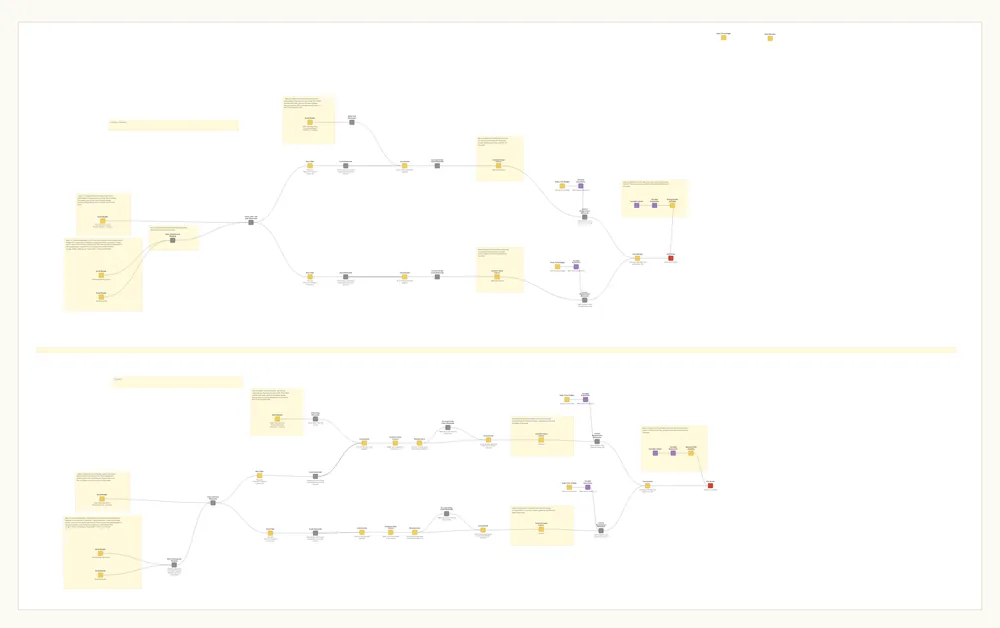
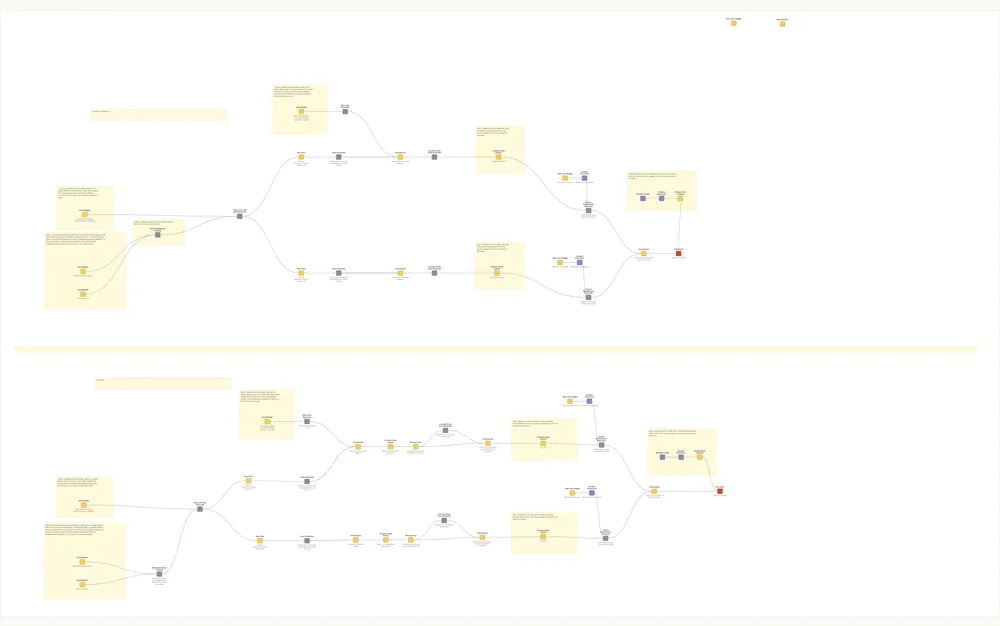
Every figure in one frame; KNIME drawings cropped to content

diff --git a/case-studies/knime-workflow.html b/case-studies/knime-workflow.html
@@ -68,7 +68,7 @@ y=l.getElementsByTagName(r)[0];y.parentNode.insertBefore(t,y);
 <p>Nothing checked any of it, and all 12 queries read those two dates. Hand-typed date windows like these once gave each week range an extra day that was already booked.</p>
 
 <figure class="breakout shot diagram">
-<a href="../visuals/png/knime-params.png" data-zoom><img src="../visuals/png/knime-params.png" srcset="../visuals/png/knime-params-1000.webp 1000w" sizes="(min-width: 820px) 680px, calc(100vw - 40px)" width="879" height="900" alt="The Variable Creator, redrawn from the workflow file, with the ten parameters from the last saved run. The account id and the folder path are masked." fetchpriority="high"></a>
+<a href="../visuals/png/knime-params.png" data-zoom><img src="../visuals/png/knime-params-stage.png" srcset="../visuals/png/knime-params-stage-1000.webp 1000w, ../visuals/png/knime-params-stage.png 1360w" sizes="(min-width: 820px) 680px, calc(100vw - 40px)" width="680" height="400" alt="The Variable Creator, redrawn from the workflow file, with the ten parameters from the last saved run. The account id and the folder path are masked." fetchpriority="high"></a>
 <figcaption aria-hidden="true">The Variable Creator, redrawn from the workflow file, with the ten parameters from the last saved run. The account id and the folder path are masked. Tap to zoom.</figcaption>
 </figure>
 
@@ -99,8 +99,8 @@ GROUP BY ...</code></pre>
 <p>All 12 of those database nodes are now flagged deprecated by KNIME, so each one is something else to replace.</p>
 
 <figure class="breakout shot diagram">
-<a href="../visuals/png/knime-queries.png" data-zoom><img src="../visuals/png/knime-queries.png" srcset="../visuals/png/knime-queries-1000.webp 1000w" sizes="(min-width: 820px) 680px, calc(100vw - 40px)" width="898" height="1925" alt="The twelve queries, each reading the same hand-typed dates from the Variable Creator." loading="lazy"></a>
-<figcaption aria-hidden="true">The twelve queries, each reading the same hand-typed dates from the Variable Creator. Tap to zoom.</figcaption>
+<a href="../visuals/png/knime-queries.png" data-zoom><img src="../visuals/png/knime-queries-stage.png" srcset="../visuals/png/knime-queries-stage-1000.webp 1000w, ../visuals/png/knime-queries-stage.png 1360w" sizes="(min-width: 820px) 680px, calc(100vw - 40px)" width="680" height="400" alt="The first four of the twelve queries, each reading the same hand-typed dates from the Variable Creator. The full view has all twelve." loading="lazy"></a>
+<figcaption aria-hidden="true">The first four of the twelve queries, each reading the same hand-typed dates from the Variable Creator. The full view has all twelve. Tap to zoom.</figcaption>
 </figure>
 
 <h3>Trimming every row back to its client's week</h3>
@@ -110,8 +110,8 @@ GROUP BY ...</code></pre>
 
 <p>There were ten copies of it, so any change to the logic had to be made ten times.</p>
 
-<figure class="breakout shot diagram full">
-<a href="../visuals/png/knime-trim.png" data-zoom><img src="../visuals/png/knime-trim.png" srcset="../visuals/png/knime-trim-1000.webp 1000w, ../visuals/png/knime-trim-2000.webp 2000w" sizes="(min-width: 820px) 680px, calc(100vw - 40px)" width="1400" height="533" alt="Inside one of the ten copies: join the client list, filter the Mon–Sun and Sun–Sat weeks, total by date and client, and split by product." loading="lazy"></a>
+<figure class="breakout shot diagram">
+<a href="../visuals/png/knime-trim.png" data-zoom><img src="../visuals/png/knime-trim-stage.png" srcset="../visuals/png/knime-trim-stage-1000.webp 1000w, ../visuals/png/knime-trim-stage.png 1360w" sizes="(min-width: 820px) 680px, calc(100vw - 40px)" width="680" height="400" alt="Inside one of the ten copies: join the client list, filter the Mon–Sun and Sun–Sat weeks, total by date and client, and split by product." loading="lazy"></a>
 <figcaption aria-hidden="true">Inside one of the ten copies: join the client list, filter the Mon–Sun and Sun–Sat weeks, total by date and client, and split by product. Tap to zoom.</figcaption>
 </figure>
 
@@ -119,7 +119,7 @@ GROUP BY ...</code></pre>
 <p>Two products ran through one Stripe account. After one was sold, its transactions kept running through the account while its clients moved over, so they had to be separated in the books and paid over to the buyer. Some costs came in as one pile and had to be split. The allocation sub-workflow worked out each product's share and passed the percentages on to the rest of the run.</p>
 
 <figure class="breakout shot diagram">
-<a href="../visuals/png/knime-allocation.png" data-zoom><img src="../visuals/png/knime-allocation.png" srcset="../visuals/png/knime-allocation-1000.webp 1000w" sizes="(min-width: 820px) 680px, calc(100vw - 40px)" width="938" height="449" alt="The allocation sub-workflow that works out each product&#x27;s share." loading="lazy"></a>
+<a href="../visuals/png/knime-allocation.png" data-zoom><img src="../visuals/png/knime-allocation-stage.png" srcset="../visuals/png/knime-allocation-stage-1000.webp 1000w, ../visuals/png/knime-allocation-stage.png 1360w" sizes="(min-width: 820px) 680px, calc(100vw - 40px)" width="680" height="400" alt="The allocation sub-workflow that works out each product&#x27;s share." loading="lazy"></a>
 <figcaption aria-hidden="true">The allocation sub-workflow that works out each product's share. Tap to zoom.</figcaption>
 </figure>
 
@@ -129,7 +129,7 @@ GROUP BY ...</code></pre>
 <p>Every one of those paths was typed into the workflow. I pointed them at our shared drive so I could send the workflow to someone else, and they only had to update their own Snowflake credentials.</p>
 
 <figure class="breakout shot diagram">
-<a href="../visuals/png/knime-writers.png" data-zoom><img src="../visuals/png/knime-writers.png" width="268" height="579" alt="One writer sub-workflow: four files, one for each product and week type." loading="lazy"></a>
+<a href="../visuals/png/knime-writers.png" data-zoom><img src="../visuals/png/knime-writers-stage.png" srcset="../visuals/png/knime-writers-stage-1000.webp 1000w, ../visuals/png/knime-writers-stage.png 1360w" sizes="(min-width: 820px) 680px, calc(100vw - 40px)" width="680" height="400" alt="One writer sub-workflow: four files, one for each product and week type." loading="lazy"></a>
 <figcaption aria-hidden="true">One writer sub-workflow: four files, one for each product and week type. Tap to zoom.</figcaption>
 </figure>
 
@@ -141,7 +141,7 @@ GROUP BY ...</code></pre>
 <p>The checker also sat outside the main workflow, so it only ran when someone ran it on its own. Once the weekly run was handed over, it wasn't being run every week, and that's how the fee went unbooked until my cost dashboard surfaced it.</p>
 
 <figure class="breakout shot diagram">
-<a href="../visuals/png/knime-checker.png" data-zoom><img src="../visuals/png/knime-checker.png" srcset="../visuals/png/knime-checker-1000.webp 1000w" sizes="(min-width: 820px) 680px, calc(100vw - 40px)" width="543" height="444" alt="The checker branch and my note on it." loading="lazy"></a>
+<a href="../visuals/png/knime-checker.png" data-zoom><img src="../visuals/png/knime-checker-stage.png" srcset="../visuals/png/knime-checker-stage-1000.webp 1000w, ../visuals/png/knime-checker-stage.png 1360w" sizes="(min-width: 820px) 680px, calc(100vw - 40px)" width="680" height="400" alt="The checker branch and my note on it." loading="lazy"></a>
 <figcaption aria-hidden="true">The checker branch and my note on it. Tap to zoom.</figcaption>
 </figure>
 
@@ -152,9 +152,9 @@ GROUP BY ...</code></pre>
 
 <p>This one took its dates from date pickers instead of typed text, which is the fix the payout workflow never got. The notes on its canvas list what still had to be done by hand each week, like pointing each reader at the latest payout summary and downloading fresh lookup files.</p>
 
-<figure class="breakout shot diagram full">
-<a href="../visuals/png/knime-import.png" data-zoom><img src="../visuals/png/knime-import.png" srcset="../visuals/png/knime-import-1000.webp 1000w, ../visuals/png/knime-import-2000.webp 2000w" sizes="(min-width: 820px) 680px, calc(100vw - 40px)" width="1556" height="976" alt="The import workflow. The yellow notes are the steps still done by hand each week. It&#x27;s wide, so it reads best full size." loading="lazy"></a>
-<figcaption aria-hidden="true">The import workflow. The yellow notes are the steps still done by hand each week. It's wide, so it reads best full size. Tap to zoom.</figcaption>
+<figure class="breakout shot diagram">
+<a href="../visuals/png/knime-import.png" data-zoom><img src="../visuals/png/knime-import-stage.png" srcset="../visuals/png/knime-import-stage-1000.webp 1000w, ../visuals/png/knime-import-stage.png 1360w" sizes="(min-width: 820px) 680px, calc(100vw - 40px)" width="680" height="400" alt="The start of the import workflow. The yellow notes are the steps still done by hand each week. The full view has the whole workflow, for both products." loading="lazy"></a>
+<figcaption aria-hidden="true">The start of the import workflow. The yellow notes are the steps still done by hand each week. The full view has the whole workflow, for both products. Tap to zoom.</figcaption>
 </figure>
 
 <h2>What it got right</h2>

diff --git a/case-studies/fpa-reporting-package.html b/case-studies/fpa-reporting-package.html
@@ -61,8 +61,8 @@ y=l.getElementsByTagName(r)[0];y.parentNode.insertBefore(t,y);
 <div class="results"><dt>Results</dt><dd><ul><li>30 minutes to under 5 per run (timed)</li><li>All 8 closed months balance and tie to Numeric</li><li>74 runs kept, no closed month flagged as changed</li></ul></dd></div>
 </dl>
 
-<figure class="breakout shot full">
-<a href="../visuals/png/fpa-dashboard-overview.png" data-zoom><img src="../visuals/png/fpa-dashboard-overview.png" srcset="../visuals/png/fpa-dashboard-overview-1000.webp 1000w, ../visuals/png/fpa-dashboard-overview-2000.webp 2000w" sizes="(min-width: 820px) 680px, calc(100vw - 40px)" width="1440" height="1107" alt="Sample data: the real dashboard running on invented names and amounts. The executive summary was written for this demo. In the real one it&#x27;s still empty, which is one of the limits below." fetchpriority="high"></a>
+<figure class="breakout shot">
+<a href="../visuals/png/fpa-dashboard-overview.png" data-zoom><img src="../visuals/png/fpa-dashboard-overview-stage.png" srcset="../visuals/png/fpa-dashboard-overview-stage-1000.webp 1000w, ../visuals/png/fpa-dashboard-overview-stage.png 1360w" sizes="(min-width: 820px) 680px, calc(100vw - 40px)" width="680" height="400" alt="Sample data: the real dashboard running on invented names and amounts. The executive summary was written for this demo. In the real one it&#x27;s still empty, which is one of the limits below." fetchpriority="high"></a>
 <figcaption aria-hidden="true">Sample data: the real dashboard running on invented names and amounts. The executive summary was written for this demo. In the real one it's still empty, which is one of the limits below. Tap to zoom.</figcaption>
 </figure>
 
@@ -148,8 +148,8 @@ y=l.getElementsByTagName(r)[0];y.parentNode.insertBefore(t,y);
 <button class="more-btn" type="button" aria-expanded="false" data-more="Show the whole flow">Show the whole flow</button>
 <figcaption>Where the numbers come from, how they get built and checked, and what goes out.</figcaption>
 </figure>
-<figure class="breakout shot full">
-<a href="../visuals/png/fpa-dashboard-bva.png" data-zoom><img src="../visuals/png/fpa-dashboard-bva.png" srcset="../visuals/png/fpa-dashboard-bva-1000.webp 1000w, ../visuals/png/fpa-dashboard-bva-2000.webp 2000w" sizes="(min-width: 820px) 680px, calc(100vw - 40px)" width="1440" height="1084" alt="Sample data: budget vs actuals filtered to one department, with two expense groups opened to the account level." loading="lazy"></a>
+<figure class="breakout shot">
+<a href="../visuals/png/fpa-dashboard-bva.png" data-zoom><img src="../visuals/png/fpa-dashboard-bva-stage.png" srcset="../visuals/png/fpa-dashboard-bva-stage-1000.webp 1000w, ../visuals/png/fpa-dashboard-bva-stage.png 1360w" sizes="(min-width: 820px) 680px, calc(100vw - 40px)" width="680" height="400" alt="Sample data: budget vs actuals filtered to one department, with two expense groups opened to the account level." loading="lazy"></a>
 <figcaption aria-hidden="true">Sample data: budget vs actuals filtered to one department, with two expense groups opened to the account level. Tap to zoom.</figcaption>
 </figure>
 
@@ -195,8 +195,8 @@ y=l.getElementsByTagName(r)[0];y.parentNode.insertBefore(t,y);
 <button class="more-btn" type="button" aria-expanded="false" data-more="Show the whole diagram">Show the whole diagram</button>
 <figcaption>Every closed month so far this year, checked against both tie-outs, with no closed month flagged as changed.</figcaption>
 </figure>
-<figure class="breakout shot full">
-<a href="../visuals/png/fpa-dashboard-runs.png" data-zoom><img src="../visuals/png/fpa-dashboard-runs.png" srcset="../visuals/png/fpa-dashboard-runs-1000.webp 1000w, ../visuals/png/fpa-dashboard-runs-2000.webp 2000w" sizes="(min-width: 820px) 680px, calc(100vw - 40px)" width="1440" height="1032" alt="Sample data: every load is kept as a run, and a closed month that comes back different on a reload gets flagged. On September 11 the source switches from Numeric to the two NetSuite reports." loading="lazy"></a>
+<figure class="breakout shot">
+<a href="../visuals/png/fpa-dashboard-runs.png" data-zoom><img src="../visuals/png/fpa-dashboard-runs-stage.png" srcset="../visuals/png/fpa-dashboard-runs-stage-1000.webp 1000w, ../visuals/png/fpa-dashboard-runs-stage.png 1360w" sizes="(min-width: 820px) 680px, calc(100vw - 40px)" width="680" height="400" alt="Sample data: every load is kept as a run, and a closed month that comes back different on a reload gets flagged. On September 11 the source switches from Numeric to the two NetSuite reports." loading="lazy"></a>
 <figcaption aria-hidden="true">Sample data: every load is kept as a run, and a closed month that comes back different on a reload gets flagged. On September 11 the source switches from Numeric to the two NetSuite reports. Tap to zoom.</figcaption>
 </figure>
 
@@ -213,16 +213,14 @@ y=l.getElementsByTagName(r)[0];y.parentNode.insertBefore(t,y);
 <li>So when something changes after close, I just run it again.</li>
 </ul>
 
-<div class="fig-row breakout">
-<figure class="breakout shot full">
-<a href="../visuals/png/fpa-bva-workbook.png" data-zoom><img src="../visuals/png/fpa-bva-workbook.png" srcset="../visuals/png/fpa-bva-workbook-1000.webp 1000w, ../visuals/png/fpa-bva-workbook-2000.webp 2000w" sizes="(min-width: 820px) 680px, calc(100vw - 40px)" width="1100" height="838" alt="Sample data: the one-click budget-vs-actuals export, recalculated by Excel." loading="lazy"></a>
+<figure class="breakout shot">
+<a href="../visuals/png/fpa-bva-workbook.png" data-zoom><img src="../visuals/png/fpa-bva-workbook-stage.png" srcset="../visuals/png/fpa-bva-workbook-stage-1000.webp 1000w, ../visuals/png/fpa-bva-workbook-stage.png 1360w" sizes="(min-width: 820px) 680px, calc(100vw - 40px)" width="680" height="400" alt="Sample data: the one-click budget-vs-actuals export, recalculated by Excel." loading="lazy"></a>
 <figcaption aria-hidden="true">Sample data: the one-click budget-vs-actuals export, recalculated by Excel. Tap to zoom.</figcaption>
 </figure>
-<figure class="breakout shot full">
-<a href="../visuals/png/fpa-package-cover.png" data-zoom><img src="../visuals/png/fpa-package-cover.png" srcset="../visuals/png/fpa-package-cover-1000.webp 1000w, ../visuals/png/fpa-package-cover-2000.webp 2000w" sizes="(min-width: 820px) 680px, calc(100vw - 40px)" width="1100" height="552" alt="Sample data: the reporting package&#x27;s cover and contents, exported in one click." loading="lazy"></a>
+<figure class="breakout shot">
+<a href="../visuals/png/fpa-package-cover.png" data-zoom><img src="../visuals/png/fpa-package-cover-stage.png" srcset="../visuals/png/fpa-package-cover-stage-1000.webp 1000w, ../visuals/png/fpa-package-cover-stage.png 1360w" sizes="(min-width: 820px) 680px, calc(100vw - 40px)" width="680" height="400" alt="Sample data: the reporting package&#x27;s cover and contents, exported in one click." loading="lazy"></a>
 <figcaption aria-hidden="true">Sample data: the reporting package's cover and contents, exported in one click. Tap to zoom.</figcaption>
 </figure>
-</div>
 
 <h2>What didn't work</h2>
 <ul>

diff --git a/case-studies/spend-tracker.html b/case-studies/spend-tracker.html
@@ -63,8 +63,8 @@ y=l.getElementsByTagName(r)[0];y.parentNode.insertBefore(t,y);
 
 <p>You can <a href="https://github.com/growingtendies/spend-tracker/releases/latest" rel="noopener" target="_blank">download the test version</a> for Windows or Mac and try it on the built-in sample household.</p>
 
-<figure class="breakout shot full">
-<a href="../visuals/png/spend-overview.png" data-zoom><img src="../visuals/png/spend-overview.png" srcset="../visuals/png/spend-overview-1000.webp 1000w, ../visuals/png/spend-overview-2000.webp 2000w" sizes="(min-width: 820px) 680px, calc(100vw - 40px)" width="1080" height="699" alt="Sample data: the overview, with spending against budget each month and the buckets that moved most, on the app&#x27;s built-in fictional household." fetchpriority="high"></a>
+<figure class="breakout shot">
+<a href="../visuals/png/spend-overview.png" data-zoom><img src="../visuals/png/spend-overview-stage.png" srcset="../visuals/png/spend-overview-stage-1000.webp 1000w, ../visuals/png/spend-overview-stage.png 1360w" sizes="(min-width: 820px) 680px, calc(100vw - 40px)" width="680" height="400" alt="Sample data: the overview, with spending against budget each month and the buckets that moved most, on the app&#x27;s built-in fictional household." fetchpriority="high"></a>
 <figcaption aria-hidden="true">Sample data: the overview, with spending against budget each month and the buckets that moved most, on the app's built-in fictional household. Tap to zoom.</figcaption>
 </figure>
 
@@ -88,16 +88,14 @@ y=l.getElementsByTagName(r)[0];y.parentNode.insertBefore(t,y);
 <li>A made-up household with 10 accounts, so you can look around before loading your own.</li>
 </ul>
 
-<div class="fig-row breakout">
-<figure class="breakout shot full">
-<a href="../visuals/png/spend-bva.png" data-zoom><img src="../visuals/png/spend-bva.png" srcset="../visuals/png/spend-bva-1000.webp 1000w, ../visuals/png/spend-bva-2000.webp 2000w" sizes="(min-width: 820px) 680px, calc(100vw - 40px)" width="1440" height="1066" alt="Sample data: spending vs budget for the year so far, every bucket by month against its budget." loading="lazy"></a>
+<figure class="breakout shot">
+<a href="../visuals/png/spend-bva.png" data-zoom><img src="../visuals/png/spend-bva-stage.png" srcset="../visuals/png/spend-bva-stage-1000.webp 1000w, ../visuals/png/spend-bva-stage.png 1360w" sizes="(min-width: 820px) 680px, calc(100vw - 40px)" width="680" height="400" alt="Sample data: spending vs budget for the year so far, every bucket by month against its budget." loading="lazy"></a>
 <figcaption aria-hidden="true">Sample data: spending vs budget for the year so far, every bucket by month against its budget. Tap to zoom.</figcaption>
 </figure>
-<figure class="breakout shot full">
-<a href="../visuals/png/spend-recurring.png" data-zoom><img src="../visuals/png/spend-recurring.png" srcset="../visuals/png/spend-recurring-1000.webp 1000w, ../visuals/png/spend-recurring-2000.webp 2000w" sizes="(min-width: 820px) 680px, calc(100vw - 40px)" width="1440" height="1007" alt="Sample data: recurring charges." loading="lazy"></a>
+<figure class="breakout shot">
+<a href="../visuals/png/spend-recurring.png" data-zoom><img src="../visuals/png/spend-recurring-stage.png" srcset="../visuals/png/spend-recurring-stage-1000.webp 1000w, ../visuals/png/spend-recurring-stage.png 1360w" sizes="(min-width: 820px) 680px, calc(100vw - 40px)" width="680" height="400" alt="Sample data: recurring charges." loading="lazy"></a>
 <figcaption aria-hidden="true">Sample data: recurring charges. Tap to zoom.</figcaption>
 </figure>
-</div>
 
 <h2>How I know it works</h2>
 <ul>
@@ -114,16 +112,14 @@ y=l.getElementsByTagName(r)[0];y.parentNode.insertBefore(t,y);
 <li>It went from the first commit on August 25 to 314 commits by September 30.</li>
 </ul>
 
-<div class="fig-row breakout">
-<figure class="breakout shot full">
-<a href="../visuals/png/spend-close.png" data-zoom><img src="../visuals/png/spend-close.png" srcset="../visuals/png/spend-close-1000.webp 1000w, ../visuals/png/spend-close-2000.webp 2000w" sizes="(min-width: 820px) 680px, calc(100vw - 40px)" width="1440" height="1032" alt="Sample data: the monthly close, showing which accounts are up to date, what isn&#x27;t covered yet, what still needs a bucket, and the open decisions before the month is closed." loading="lazy"></a>
+<figure class="breakout shot">
+<a href="../visuals/png/spend-close.png" data-zoom><img src="../visuals/png/spend-close-stage.png" srcset="../visuals/png/spend-close-stage-1000.webp 1000w, ../visuals/png/spend-close-stage.png 1360w" sizes="(min-width: 820px) 680px, calc(100vw - 40px)" width="680" height="400" alt="Sample data: the monthly close, showing which accounts are up to date, what isn&#x27;t covered yet, what still needs a bucket, and the open decisions before the month is closed." loading="lazy"></a>
 <figcaption aria-hidden="true">Sample data: the monthly close, showing which accounts are up to date, what isn't covered yet, what still needs a bucket, and the open decisions before the month is closed. Tap to zoom.</figcaption>
 </figure>
-<figure class="breakout shot full">
-<a href="../visuals/png/spend-networth.png" data-zoom><img src="../visuals/png/spend-networth.png" srcset="../visuals/png/spend-networth-1000.webp 1000w, ../visuals/png/spend-networth-2000.webp 2000w" sizes="(min-width: 820px) 680px, calc(100vw - 40px)" width="1440" height="1032" alt="Sample data: net worth over time." loading="lazy"></a>
+<figure class="breakout shot">
+<a href="../visuals/png/spend-networth.png" data-zoom><img src="../visuals/png/spend-networth-stage.png" srcset="../visuals/png/spend-networth-stage-1000.webp 1000w, ../visuals/png/spend-networth-stage.png 1360w" sizes="(min-width: 820px) 680px, calc(100vw - 40px)" width="680" height="400" alt="Sample data: net worth over time." loading="lazy"></a>
 <figcaption aria-hidden="true">Sample data: net worth over time. Tap to zoom.</figcaption>
 </figure>
-</div>
 
 <h2>Limits and what's next</h2>
 <ul>

diff --git a/case-studies/stripe-payout-recon.html b/case-studies/stripe-payout-recon.html
@@ -116,9 +116,9 @@ y=l.getElementsByTagName(r)[0];y.parentNode.insertBefore(t,y);
 
 <p>I wrote up both versions for the team, the manual process and the KNIME one, along with the invoice and payment imports, and those documents were what the team used to run it.</p>
 
-<figure class="breakout shot diagram full">
-<a href="../visuals/png/payout-knime.png" data-zoom><img src="../visuals/png/payout-knime.png" srcset="../visuals/png/payout-knime-1000.webp 1000w, ../visuals/png/payout-knime-2000.webp 2000w" sizes="(min-width: 820px) 680px, calc(100vw - 40px)" width="1600" height="2028" alt="The US workflow redrawn from the KNIME file, every node and connection where they sat, with product and client names replaced. The red box marks where every run&#x27;s dates were typed by hand. Below it, the inside of one of the ten copies of the same step." loading="lazy"></a>
-<figcaption aria-hidden="true">The US workflow redrawn from the KNIME file, every node and connection where they sat, with product and client names replaced. The red box marks where every run's dates were typed by hand. Below it, the inside of one of the ten copies of the same step. Tap to zoom.</figcaption>
+<figure class="breakout shot diagram">
+<a href="../visuals/png/payout-knime.png" data-zoom><img src="../visuals/png/payout-knime-stage.png" srcset="../visuals/png/payout-knime-stage-1000.webp 1000w, ../visuals/png/payout-knime-stage.png 1360w" sizes="(min-width: 820px) 680px, calc(100vw - 40px)" width="680" height="400" alt="Part of the US workflow, redrawn from the KNIME file with product and client names replaced. The red box marks where every run&#x27;s dates were typed by hand. The full view has every node where it sat, plus the inside of one of the ten copies of the same step." loading="lazy"></a>
+<figcaption aria-hidden="true">Part of the US workflow, redrawn from the KNIME file with product and client names replaced. The red box marks where every run's dates were typed by hand. The full view has every node where it sat, plus the inside of one of the ten copies of the same step. Tap to zoom.</figcaption>
 </figure>
 
 <a class="card deep" href="knime-workflow.html" aria-labelledby="t-knime-workflow">
@@ -137,8 +137,8 @@ y=l.getElementsByTagName(r)[0];y.parentNode.insertBefore(t,y);
 </ul>
 
 <h2>The console</h2>
-<figure class="breakout shot full">
-<a href="../visuals/png/console-summary.png" data-zoom><img src="../visuals/png/console-summary.png" srcset="../visuals/png/console-summary-1000.webp 1000w, ../visuals/png/console-summary-2000.webp 2000w" sizes="(min-width: 820px) 680px, calc(100vw - 40px)" width="1200" height="465" alt="Sample data: the console itself, with the run form and the week&#x27;s summary." loading="lazy"></a>
+<figure class="breakout shot">
+<a href="../visuals/png/console-summary.png" data-zoom><img src="../visuals/png/console-summary-stage.png" srcset="../visuals/png/console-summary-stage-1000.webp 1000w, ../visuals/png/console-summary-stage.png 1360w" sizes="(min-width: 820px) 680px, calc(100vw - 40px)" width="680" height="400" alt="Sample data: the console itself, with the run form and the week&#x27;s summary." loading="lazy"></a>
 <figcaption aria-hidden="true">Sample data: the console itself, with the run form and the week's summary. Tap to zoom.</figcaption>
 </figure>
 
@@ -225,7 +225,7 @@ y=l.getElementsByTagName(r)[0];y.parentNode.insertBefore(t,y);
 <figcaption>The console's checks, with their results from a real run and the amounts removed.</figcaption>
 </figure>
 <figure class="breakout shot">
-<a href="../visuals/png/console-journal-workbook.png" data-zoom><img src="../visuals/png/console-journal-workbook.png" srcset="../visuals/png/console-journal-workbook-1000.webp 1000w" sizes="(min-width: 820px) 680px, calc(100vw - 40px)" width="872" height="701" alt="Sample data: the NetSuite journal entry import from the summary workbook every run writes." loading="lazy"></a>
+<a href="../visuals/png/console-journal-workbook.png" data-zoom><img src="../visuals/png/console-journal-workbook-stage.png" srcset="../visuals/png/console-journal-workbook-stage-1000.webp 1000w, ../visuals/png/console-journal-workbook-stage.png 1360w" sizes="(min-width: 820px) 680px, calc(100vw - 40px)" width="680" height="400" alt="Sample data: the NetSuite journal entry import from the summary workbook every run writes." loading="lazy"></a>
 <figcaption aria-hidden="true">Sample data: the NetSuite journal entry import from the summary workbook every run writes. Tap to zoom.</figcaption>
 </figure>
 
@@ -244,8 +244,8 @@ y=l.getElementsByTagName(r)[0];y.parentNode.insertBefore(t,y);
 <li>Running next to the manual process, the console exposed an error in one week's booked entry. Hand-typed date windows had given each week range an extra day that was already booked. I flagged it and it got fixed.</li>
 </ul>
 
-<figure class="breakout shot full">
-<a href="../visuals/png/console-workpaper.png" data-zoom><img src="../visuals/png/console-workpaper.png" srcset="../visuals/png/console-workpaper-1000.webp 1000w, ../visuals/png/console-workpaper-2000.webp 2000w" sizes="(min-width: 820px) 680px, calc(100vw - 40px)" width="1000" height="866" alt="Sample data: the audit workpaper every run writes, with the week&#x27;s summary and fees by client." loading="lazy"></a>
+<figure class="breakout shot">
+<a href="../visuals/png/console-workpaper.png" data-zoom><img src="../visuals/png/console-workpaper-stage.png" srcset="../visuals/png/console-workpaper-stage-1000.webp 1000w, ../visuals/png/console-workpaper-stage.png 1360w" sizes="(min-width: 820px) 680px, calc(100vw - 40px)" width="680" height="400" alt="Sample data: the audit workpaper every run writes, with the week&#x27;s summary and fees by client." loading="lazy"></a>
 <figcaption aria-hidden="true">Sample data: the audit workpaper every run writes, with the week's summary and fees by client. Tap to zoom.</figcaption>
 </figure>
 

diff --git a/site.css b/site.css
@@ -353,24 +353,12 @@ dialog.zoom.full .zoom-wrap img { max-width: none; width: auto; cursor: zoom-out
   figure.inline.collapsible .more-btn:focus-visible { outline: 2px solid var(--accent); outline-offset: 2px; }
 }
 
-/* Screenshots sit in the text column, not across the whole page, and show about half a screen:
-   the top of a screenshot, which is what the caption is about, or the whole of a KNIME canvas
-   scaled down as an overview. A tap opens either one full size. */
+/* Every picture figure is one shape: the text column's width, 17:10, with a thin border. The
+   frame is cut in advance (tools/render_visuals.py, make_stages), so the page just shows it.
+   A tap opens the full image. */
 main .wrap > figure.shot { max-width: 680px; }
-figure.shot img { width: 100%; height: auto; max-height: 440px; object-fit: cover;
-                  object-position: left top; }
-figure.shot.diagram img { width: auto; max-width: 100%; max-height: 460px; object-fit: fill; }
-@media (max-width: 760px) {
-  figure.shot img { max-height: 400px; }
-  figure.shot.diagram img { max-height: 420px; }
-}
-/* Two screenshots in a row sit side by side on wide screens. */
-.fig-row { display: grid; gap: 24px; margin: 40px 0 48px; }
-.fig-row figure { margin: 0; }
-@media (min-width: 900px) {
-  .fig-row { grid-template-columns: 1fr 1fr; align-items: start; }
-  .fig-row figure.shot img { max-height: 380px; }
-}
+figure.shot img, figure.shot.diagram img { width: 100%; height: auto; max-height: none;
+                                            border: 1px solid var(--rule); background: #fff; }
 /* The check lists run in two columns on wide screens instead of one long one. */
 @media (min-width: 900px) {
   figure.inline .vis .gates.two { display: grid; grid-template-columns: 1fr 1fr; column-gap: 36px; }
@@ -379,6 +367,3 @@ figure.shot.diagram img { width: auto; max-width: 100%; max-height: 460px; objec
 /* The check lists inline in a case study: tighter rows, so 16 checks fit in about a screen. */
 figure.inline .vis .gates li { padding: 6px 0; line-height: 1.35; }
 figure.inline .vis .gates .name small { line-height: 1.35; }
-/* Images narrower than their column sit in the middle of it. */
-figure.shot > a { display: block; }
-figure.shot img { display: block; margin-left: auto; margin-right: auto; }
